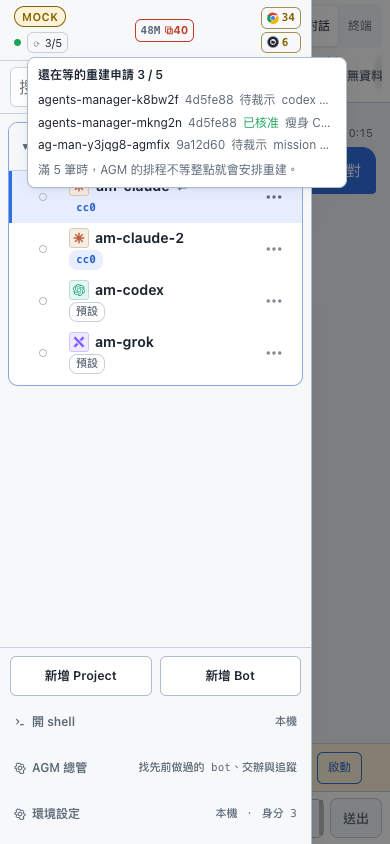
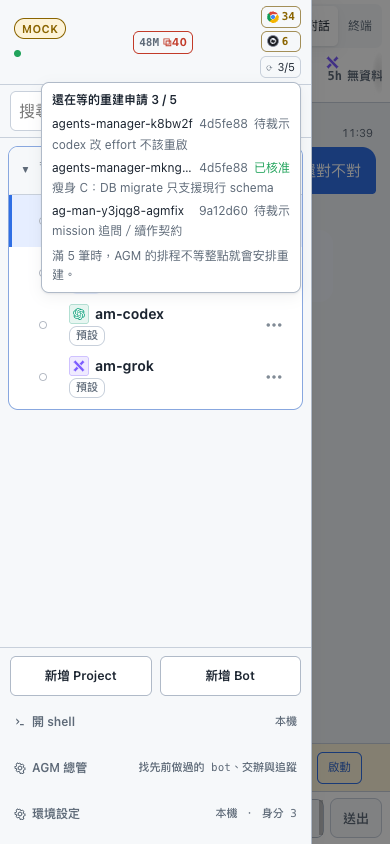
fix(web): 重建 chip 移到瀏覽器晶片下面（使用者指定位置）
使用者看了畫面後改位置：不要跟 `AG Man` 底下的 pane／連線燈擠在一起，要接在右欄那疊
瀏覽器晶片（Chrome / ego）下面。

- Sidebar 標題列右欄包成 `.head-right`（直排、靠右）：TabsBadge 在上，RebuildBadge 在下。
- 下拉改成靠右對齊、寬度收到 260px：側欄只有 287px，左錨或 320px 都會掉出畫面（桌機切左緣、
  手機切右緣，兩種都實測過）。清單改兩行排（誰＋commit＋狀態 / scope 自己一行），260px 才讀得完。
- 截圖換成新位置（docs/screenshots/rebuild-counter/），UI-DECISIONS 記下試過哪兩個位置被退。

驗證：tsc 0、oxlint warning 34（同基準）、bun run build OK、node test 181 pass、mock 桌機 1440
與手機 390 各拍一張，console error 0。

Claude-Session: https://claude.ai/code/session_01EvZ8oBs5vKA1YLBRiVL51o

diff --git a/web/src/components/rebuildBadge.css b/web/src/components/rebuildBadge.css
@@ -47,8 +47,9 @@
   position: absolute;
   z-index: 20;
   top: calc(100% + 4px);
-  left: 0;
-  width: min(320px, calc(100vw - 24px));
+  /* chip 在標題列右欄，左錨會掉出畫面右緣（手機實測），所以靠右對齊。 */
+  right: 0;
+  width: min(260px, calc(100vw - 24px));
   padding: 8px 10px;
   border: 1px solid var(--border-strong);
   border-radius: var(--radius);
@@ -74,13 +75,22 @@
 
 .rebuild-list li {
   display: grid;
-  grid-template-columns: auto auto auto minmax(0, 1fr);
+  /* 兩行：誰＋commit＋狀態一行，scope 自己一行（260px 塞不下同一行，擠著看不懂）。 */
+  grid-template-columns: minmax(0, 1fr) auto auto;
   align-items: baseline;
-  gap: 6px;
+  gap: 2px 6px;
+}
+
+.rebuild-list .rebuild-scope {
+  grid-column: 1 / -1;
 }
 
 .rebuild-who {
+  min-width: 0;
+  overflow: hidden;
   color: var(--text);
+  text-overflow: ellipsis;
+  white-space: nowrap;
 }
 
 .rebuild-commit {
@@ -107,5 +117,3 @@
   margin-top: 6px;
   color: var(--text-faint);
 }
-
-/* chip 在左上角，所以下拉一律左錨；寬度夾在視窗內，手機不會被切掉。 */

diff --git a/web/src/components/Sidebar.tsx b/web/src/components/Sidebar.tsx
@@ -1028,13 +1028,15 @@ export function Sidebar() {
           <div className="head-brand-meta">
             <PaneBadge />
             <ConnBadge socket={socket} connected={connected} />
-            <RebuildBadge />
           </div>
         </div>
         <div className="head-ram">
           <MemBadge />
         </div>
-        <TabsBadge />
+        <div className="head-right">
+          <TabsBadge />
+          <RebuildBadge />
+        </div>
       </div>
 
       {/* SPEC §6.9 */}

diff --git a/web/src/components/sidebar.css b/web/src/components/sidebar.css
@@ -13,6 +13,16 @@
   overflow: visible;
 }
 
+/* 標題列右欄：瀏覽器晶片在上，重建 chip 接在它下面（使用者 2026-09-14 指定的位置）。 */
+.head-right {
+  display: flex;
+  flex-direction: column;
+  align-items: flex-end;
+  justify-self: end;
+  gap: 3px;
+  min-width: 0;
+}
+
 .head-brand {
   display: flex;
   flex-direction: column;

diff --git a/docs/UI-DECISIONS.md b/docs/UI-DECISIONS.md
@@ -174,8 +174,9 @@
 
 AGM 的重建排程原本只在整點檢查；使用者要它**集滿 5 個重建申請就不等整點**，並要「這個 counter 標在左上角」。
 
-- **位置**：側欄最上面、`AG Man` 標題底下那一列（pane 晶片與連線燈旁），桌機與手機同一個位置。
-  不放在 RAM 那一格旁邊：側欄只有 280px，兩顆並排會把標題列擠成兩行。
+- **位置**（使用者 2026-09-14 指定）：側欄標題列的**右欄，瀏覽器晶片下面**。先試過放 `AG Man`
+  底下那一列與 RAM 那格旁邊，都被使用者退掉：那兩處不是擠成兩行就是跟 pane／連線燈混在一起。
+  下拉靠右對齊、寬 260px——側欄只有 287px，左錨或更寬都會掉出畫面。
 - **樣子**：`⟳ 3/5`。一筆都沒有時整顆不出現——常態是 0，畫一顆永遠寫 0 的 chip 只是噪音。
   到門檻時邊框與數字轉警示色：那一刻的意思是「下一輪檢查就會重建」，使用者該看得出來。
 - **點開**：列出申請者、commit、待裁示／已核准、scope 一句話，底下寫明滿幾筆會提前重建。
